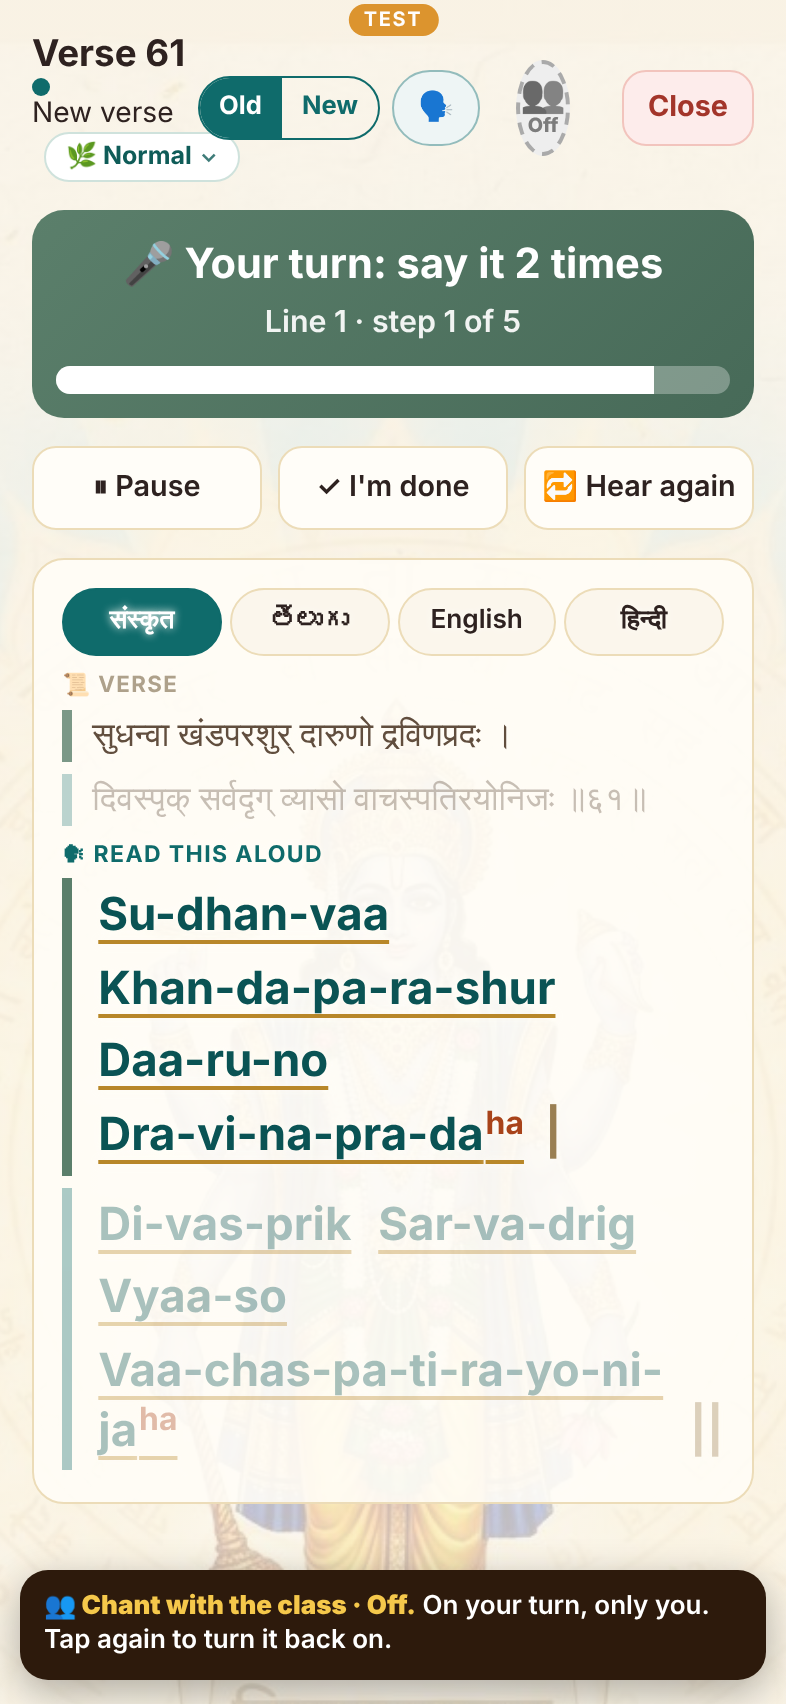
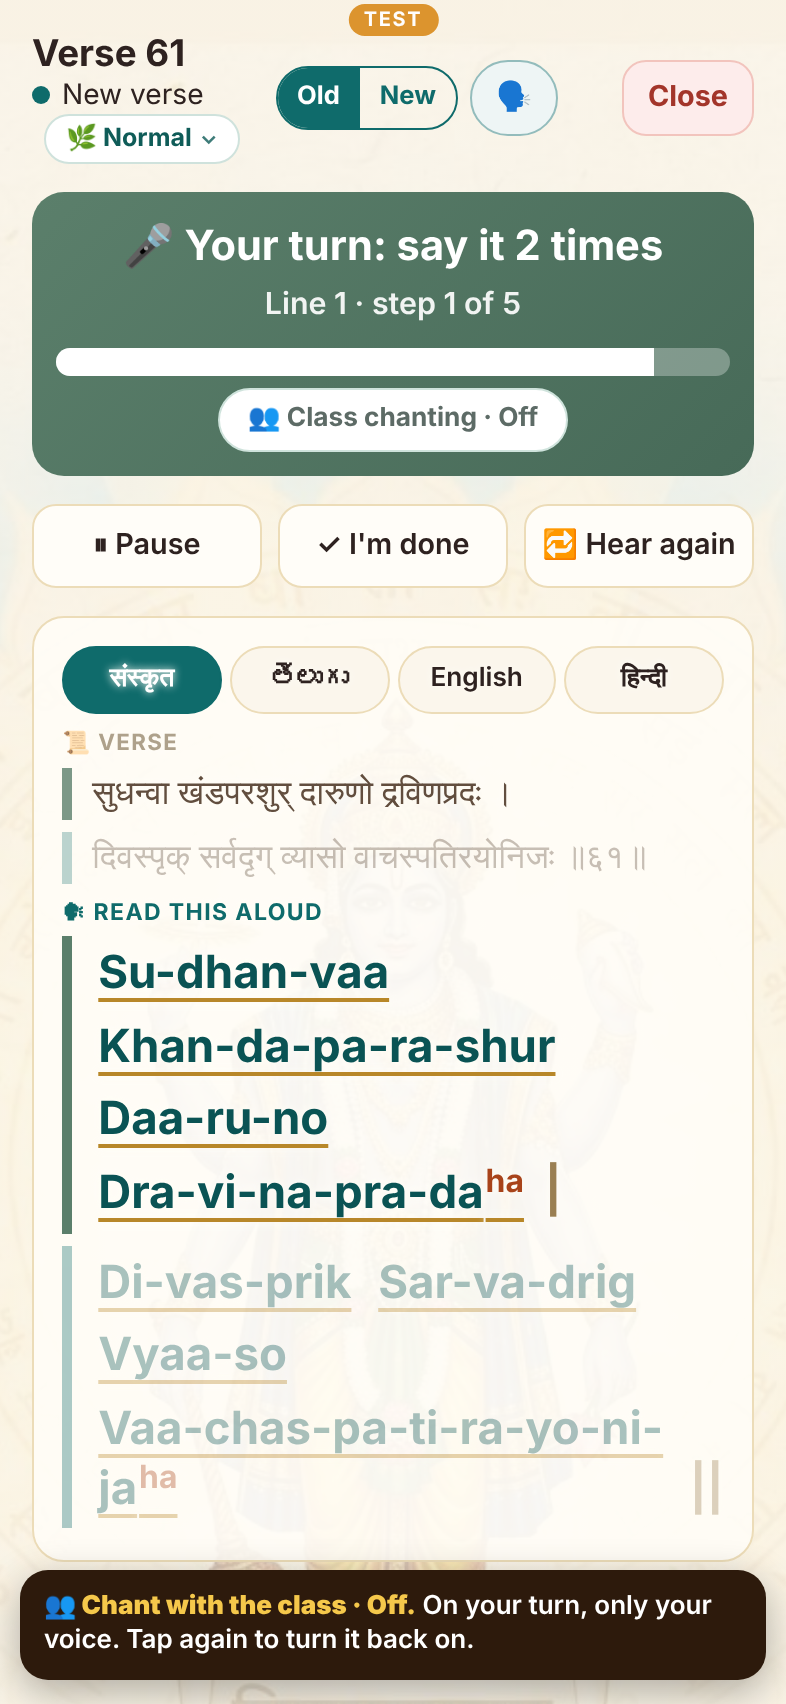
Screenshots: Old practice screen gets the same Class chanting pill as the New screen (not built yet).
Claude-Session: https://claude.ai/code/session_01YWzpyvQSTagtJ9h2VjC4Qs

diff --git a/tools/make-screens-nov22-class.py b/tools/make-screens-nov22-class.py
@@ -38,7 +38,7 @@ async def skipto(pg,cond):
     return False
 HDR="()=>{var l=document.querySelector('.lvch');var r=l;var o=document.querySelector('.eyeb');if(o)o.remove();if(r){var b=document.createElement('span');b.className='eyeb';b.textContent=window._EYE||'👁';b.style.cssText='display:inline-flex!important;align-items:center;border-radius:20px;margin-top:4px;white-space:nowrap;visibility:visible;opacity:1';r.parentNode.insertBefore(b,r);r.remove()}}"
 
-CL="""(st)=>{var r=document.querySelector('.rpsheet .rdpill');var o=document.querySelector('.clsb');if(o)o.remove();var b=document.createElement('span');b.className='clsb';b.innerHTML=st?'👥<small>On</small>':'👥<small>Off</small>';b.style.cssText='display:inline-flex;flex-direction:column;align-items:center;justify-content:center;line-height:1;font-size:1.15rem;width:48px;height:48px;border-radius:50%;margin-left:6px;font-weight:800;'+(st?'background:#0f6b66;color:#fff;border:2px solid #0f6b66':'background:#f3eee6;color:#8a7a60;border:2px dashed #b9a98c;filter:grayscale(1)');b.querySelector('small').style.cssText='font-size:.62rem;margin-top:2px';r.parentNode.insertBefore(b,r.nextSibling)}"""
+CL="""(st)=>{var o=document.querySelector('.mkcls');if(o)o.remove();var b=document.createElement('button');b.className='g2-cls mkcls'+(st?' on':'');b.innerHTML='<span>👥 Class chanting</span> <span>· '+(st?'On':'Off')+'</span>';var r=document.querySelector('.rpbar');r.parentNode.insertBefore(b,r.nextSibling)}"""
 async def main():
     async with async_playwright() as p:
         b=await p.chromium.launch(executable_path='/usr/bin/google-chrome',args=['--no-sandbox','--autoplay-policy=no-user-gesture-required'])
@@ -52,10 +52,10 @@ async def main():
             if bt: await bt.click(); await pg.wait_for_timeout(300)
         await skipto(pg,"t.indexOf('Your turn')>=0&&t.indexOf('Line 1')>=0")
         await freeze(pg); await pg.evaluate(CL,True)
-        await note(pg,"<b>👥 Chant with the class · On.</b> On your turn, soft voices chant with you. One tap turns it off, right here. Same switch as in You › Settings.")
+        await note(pg,"<b>👥 Chant with the class · On.</b> Same pill as the New screen, same place, only on your turns. Tap to turn it off.")
         await shot(pg,'13_class_on')
         await pg.evaluate(CL,False)
-        await note(pg,"<b>👥 Chant with the class · Off.</b> On your turn, only you. Tap again to turn it back on.")
+        await note(pg,"<b>👥 Chant with the class · Off.</b> On your turn, only your voice. Tap again to turn it back on.")
         await shot(pg,'14_class_off')
         await b.close()
 asyncio.run(main())
